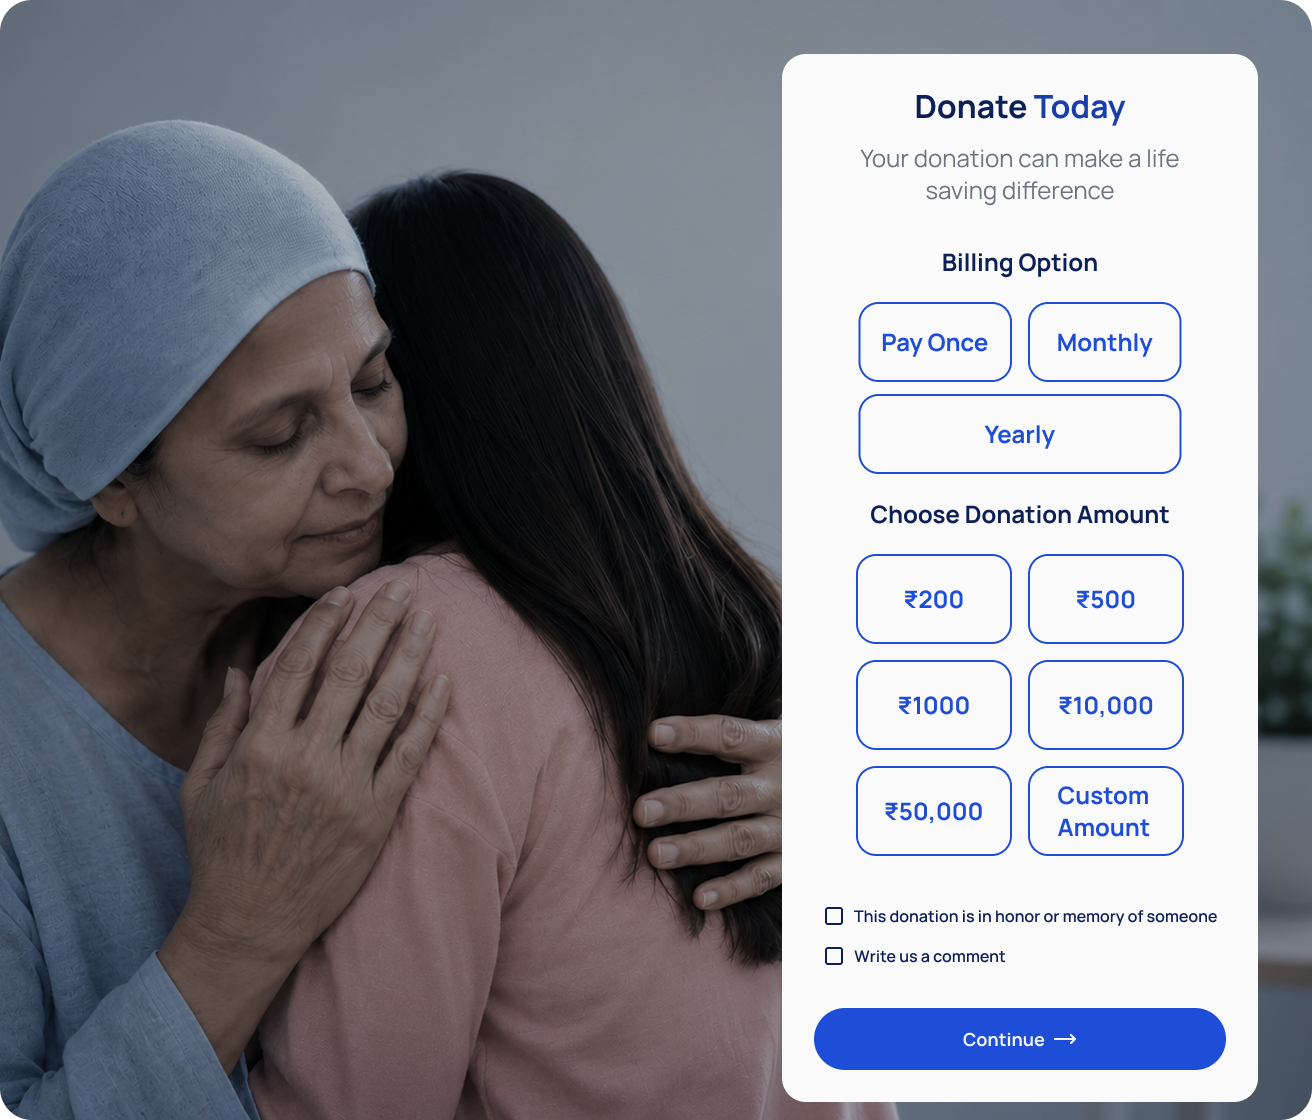
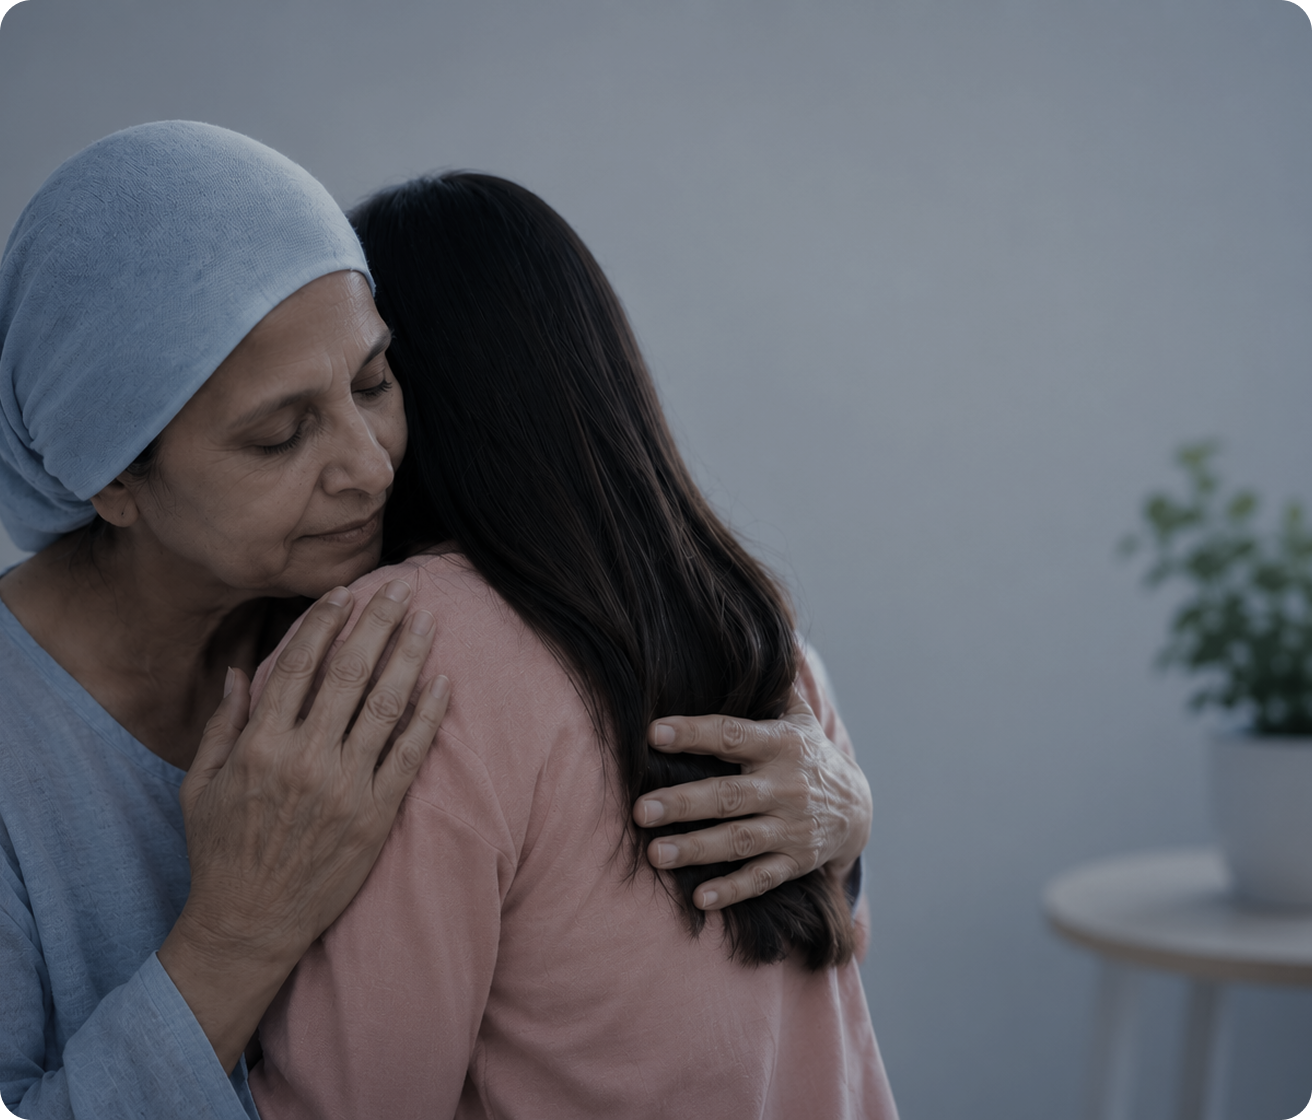
Get Involved FAQ & Founder's message

diff --git a/src/lib/components/get-involved/moreInfo.svelte b/src/lib/components/get-involved/moreInfo.svelte
@@ -1,11 +1,7 @@
 <script>
     import { ChevronDown } from 'lucide-svelte';
     import { marked } from 'marked';
-    
-    // Import your reusable global FAQ component
     import Faq from "$lib/components/faqs/faq.svelte";
-    
-    // Import your newly created Get Involved FAQ dataset
     import getInvolvedFaqsData from '$lib/data/get-involved-faqs.json';
 </script>
 
@@ -26,7 +22,7 @@
     <div class="relative bg-[#EEF4FB] border border-[#D8E6F8] p-10 md:p-16 rounded-[2.5rem] shadow-xs max-w-4xl mx-auto overflow-hidden">
       
       <!-- TOP LEFT DOUBLE QUOTE -->
-      <div class="absolute top-10 left-10 text-[#82ACF9] pointer-events-none">
+      <div class="absolute top-10 left-10 text-[#8AB4F8] pointer-events-none">
         <svg class="w-12 h-12 md:w-16 md:h-16 fill-current" viewBox="0 0 100 100">
           <rect x="10" y="12" width="28" height="38" rx="3" />
           <path d="M10 50 Q 12 74, 34 78 Q 24 64, 26 50 Z" />
@@ -36,8 +32,8 @@
       </div>
 
       <!-- BOTTOM RIGHT DOUBLE QUOTE -->
-      <div class="absolute bottom-10 right-10 text-[#82ACF9] pointer-events-none">
-        <svg class="w-12 h-12 md:w-16 md:h-16 fill-current" viewBox="0 0 100 100">
+      <div class="absolute bottom-10 right-10 text-[#8AB4F8] pointer-events-none">
+        <svg class="w-12 h-12 md:w-16 md:h-16 fill-current scale-x-[-1]" viewBox="0 0 100 100">
           <rect x="10" y="12" width="28" height="38" rx="3" />
           <path d="M10 50 Q 12 74, 34 78 Q 24 64, 26 50 Z" />
           <rect x="54" y="12" width="28" height="38" rx="3" />
@@ -47,7 +43,7 @@
 
       <div class="relative z-10 text-center space-y-8">
         <!-- QUOTE TEXT -->
-        <p class="text-2xl md:text-3xl font-semibold text-[#0D2460] max-w-2xl mx-auto leading-relaxed tracking-tight">
+        <p class="text-2xl md:text-3xl font-semibold text-[#334E68] max-w-2xl mx-auto leading-relaxed tracking-tight">
           Alone we can do so little, <br/>
           <span class="text-[#78C520] font-semibold">together</span> we can do so much.
         </p>
@@ -55,16 +51,16 @@
         <!-- AUTHOR & AFFILIATION LINES -->
         <div class="space-y-2 pt-2">
           <div class="flex items-center justify-center gap-3">
-            <div class="w-10 h-[2px] bg-[#1E40AF]"></div>
-            <p class="font-bold text-xs text-[#1E40AF] tracking-[0.2em] uppercase">
+            <div class="w-10 h-[2px] bg-[#3B82F6]"></div>
+            <p class="font-bold text-xs text-[#2563EB] tracking-[0.15em] uppercase">
               PRIYANKA JOSHI
             </p>
-            <div class="w-10 h-[2px] bg-[#1E40AF]"></div>
+            <div class="w-10 h-[2px] bg-[#3B82F6]"></div>
           </div>
 
-          <div class="space-y-0.5 text-[#64748B] text-[10px] font-normal uppercase tracking-[0.18em]">
-            <p>FOUNDER</p>
-            <p>JARURAT CARE FOUNDATION</p>
+          <div class="space-y-0.5 text-[#64748B] text-[10px] font-normal uppercase tracking-[0.1em]">
+            <p>FOUNDER,</p>
+            <p class="tracking-[0.08em]">JARURAT CARE FOUNDATION</p>
           </div>
         </div>
 
@@ -74,11 +70,6 @@
 
     <!-- FAQ Section -->
     <div class="max-w-3xl mx-auto w-full space-y-8">
-      <h2 class="text-3xl font-semibold text-[#0D2460] text-center tracking-tight">
-        FAQ
-      </h2>
-
-      <!-- Passes the JSON array into your shared component -->
       <Faq faqs={getInvolvedFaqsData} />
     </div>
 

diff --git a/src/lib/components/get-involved/hero.svelte b/src/lib/components/get-involved/hero.svelte
@@ -5,12 +5,12 @@
 
 <section class="relative w-full bg-[#CDE3F7] pt-24 pb-8 lg:pt-28 lg:pb-10 overflow-hidden flex items-center font-sans antialiased">
 	
-	<!-- DESKTOP HERO IMAGE -->
-	<div class="hidden lg:flex absolute right-0 bottom-0 h-[84%] w-[62%] items-end justify-end pointer-events-none z-0 pr-6">
+	<!-- HERO IMAGE -->
+	<div class="absolute inset-0 w-full h-full pointer-events-none z-0">
 		<img
 			src={heroImage}
 			alt="Medical Advisory Board Doctors"
-			class="h-full w-auto max-w-full object-contain object-bottom" 
+			class="w-full h-full object-cover object-right" 
 		/>
 	</div>
 
@@ -19,8 +19,8 @@
 		
 		<div class="lg:col-span-6 space-y-3.5 text-left">
 			
-			<!-- ADVOCACY & IMPACT BADGE -->
-			<div class="inline-block px-3.5 py-1 bg-white/40 border border-white/60 rounded-full backdrop-blur-xs">
+			<!-- ADVOCACY & IMPACT BADGE-->
+			<div class="inline-block px-3.5 py-1 bg-white border-2 border-[#1E40AF] rounded-full">
 				<span class="text-[#1E40AF] font-medium text-[10px] tracking-wider uppercase">
 					ADVOCACY & IMPACT
 				</span>
@@ -38,16 +38,16 @@
 				</p>
 			</div>
 
-			<!-- JS, AK, + BADGES WITH RESPECTIVE COLORS & NO GAPS -->
+			<!-- JS, AK, + BADGES -->
 			<div class="flex items-center gap-3 pt-1">
-				<div class="flex -space-x-3 shrink-0">
-					<div class="w-8 h-8 rounded-full bg-[#E0F2FE] border-2 border-white flex items-center justify-center text-xs font-semibold text-[#0369A1]">
+				<div class="flex -space-x-2 shrink-0">
+					<div class="w-8 h-8 rounded-full bg-[#E0F2FE] border-2 border-white flex items-center justify-center text-xs font-semibold text-black">
 						JS
 					</div>
-					<div class="w-8 h-8 rounded-full bg-[#FCE7F3] border-2 border-white flex items-center justify-center text-xs font-semibold text-[#BE185D]">
+					<div class="w-8 h-8 rounded-full bg-[#EDE9FE] border-2 border-white flex items-center justify-center text-xs font-semibold text-[#1D4ED8]">
 						AK
 					</div>
-					<div class="w-8 h-8 rounded-full bg-[#FEF3C7] border-2 border-white flex items-center justify-center text-xs font-semibold text-[#B45309]">
+					<div class="w-8 h-8 rounded-full bg-[#E2E8F0] border-2 border-white flex items-center justify-center text-xs font-semibold text-black">
 						+
 					</div>
 				</div>
@@ -56,7 +56,7 @@
 				</span>
 			</div>
 
-			<!-- QR SCANNER (WITHOUT WHITE BACKGROUND) -->
+			<!-- QR SCANNER -->
 			<div class="pt-2 flex items-center gap-4">
 				<div class="w-32 h-32 shrink-0 flex items-center justify-center">
 					<img 
@@ -80,7 +80,7 @@
 		</div>
 
 		<!-- Mobile Fallback Image -->
-		<div class="block lg:hidden mt-6">
+		<div class="block lg:hidden mt-6 relative z-10">
 			<img
 				src={heroImage}
 				alt="Medical Advisory Board Doctors"

diff --git a/src/lib/components/get-involved/help.svelte b/src/lib/components/get-involved/help.svelte
@@ -5,22 +5,26 @@
     {
       title: "Join the Ecosystem",
       desc: "Be part of India's most inclusive cancer support network and connect with experts.",
-      icon: Users
+      icon: Users,
+      href: "#ecosystem" 
     },
     {
       title: "Medical Opinions",
       desc: "Provide critical secondary medical insights to strengthen patient treatment pathways.",
-      icon: Stethoscope
+      icon: Stethoscope,
+      href: "#opinions"
     },
     {
       title: "Co-Host Webinars",
       desc: "Lead educational webinars and screening initiatives to spread awareness across India.",
-      icon: MonitorPlay
+      icon: MonitorPlay,
+      href: "#webinars" 
     },
     {
       title: "Mentor & Guide",
       desc: "Empower caregivers and early-career oncologists through your clinical experience.",
-      icon: HandHeart
+      icon: HandHeart,
+      href: "#mentor" 
     }
   ];
 </script>
@@ -33,7 +37,7 @@
     <div class="flex flex-col items-center text-center mb-10 md:mb-12">
       
       <!-- Impact Opportunities Badge -->
-      <div class="inline-flex items-center px-4 py-1.5 bg-[#EEF5FF] border border-[#2563EB]/40 rounded-full mb-4">
+      <div class="inline-flex items-center px-4 py-1.5 bg-white border-2 border-[#2563EB] rounded-full mb-4">
         <span class="text-[#2563EB] font-medium text-[10px] md:text-[11px] tracking-widest uppercase">
           IMPACT OPPORTUNITIES
         </span>
@@ -51,13 +55,13 @@
     </div>
 
     <!-- 4 CARDS GRID -->
-    <div class="grid grid-cols-1 sm:grid-cols-2 lg:grid-cols-4 gap-5">
+    <div class="grid grid-cols-1 sm:grid-cols-2 lg:grid-cols-4 gap-6">
       {#each helpItems as item}
-        <div class="bg-white border border-slate-100/80 rounded-[28px] p-6 md:p-8 shadow-sm flex flex-col justify-between">
+        <div class="bg-white border border-slate-100/80 rounded-[28px] p-6 md:p-8 shadow-[0_0_30px_rgba(0,0,0,0.12)] flex flex-col justify-between">
           
           <div>
             <!-- Icon Container -->
-            <div class="w-11 h-11 rounded-xl bg-[#EEF5FF] flex items-center justify-center mb-6 border border-[#DCE8FB]">
+            <div class="w-11 h-11 rounded-xl bg-white flex items-center justify-center mb-6 border border-slate-200/80 shadow-xs">
               <svelte:component this={item.icon} size={22} class="text-[#2563EB]" />
             </div>
 
@@ -75,7 +79,7 @@
           <!-- Link -->
           <div class="pt-2">
             <a 
-              href="#learn-more" 
+              href={item.href} 
               class="inline-flex items-center text-[#2563EB] font-semibold text-base hover:underline transition-colors gap-1.5"
             >
               <span>Learn More</span>
